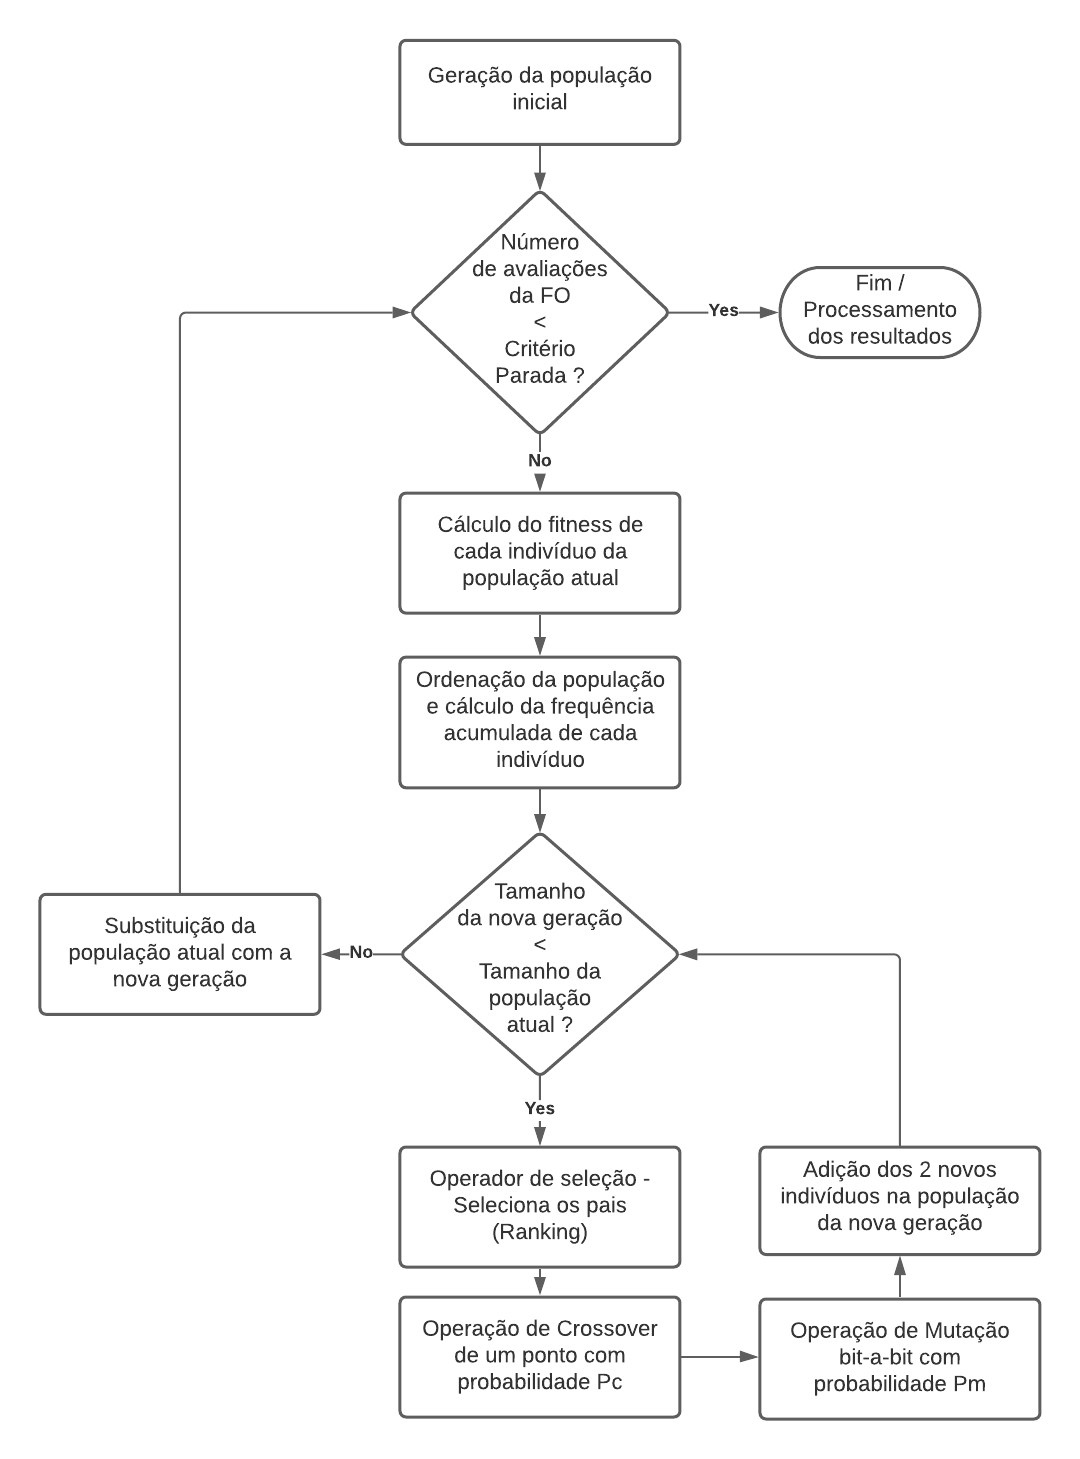
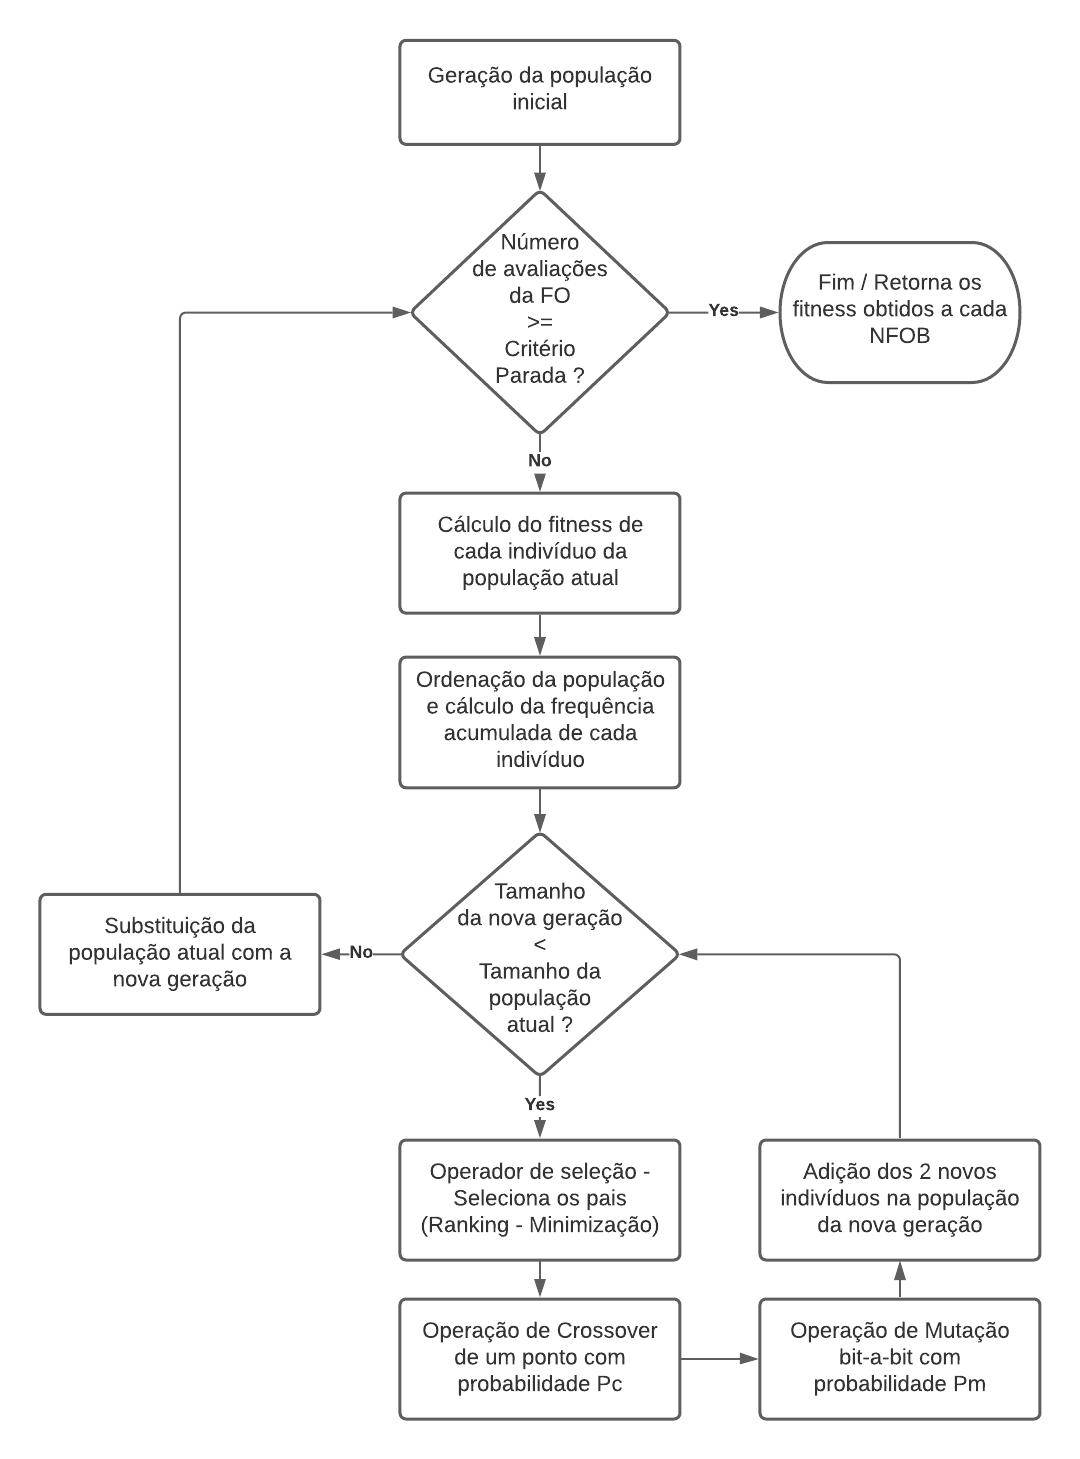
Organizacao das 50 execucoes + Alteracao README

Changed region(s): [[0.3667, 0.7402, 0.6417, 0.987], [0.7028, 0.7711, 0.9778, 0.8944], [0.7028, 0.1542, 0.9472, 0.2467]]

diff --git a/SGA/SGA.cs b/SGA/SGA.cs
@@ -477,84 +477,90 @@ namespace SGA
             // Inicializa o temporizador
             var total_watch = System.Diagnostics.Stopwatch.StartNew();
 
+
+
+            // ================================================
+            // =============== 1 EXECUÇÃO =====================
+            // ================================================
+            
             // Executa o SGA e recebe com retorno os NFOB
             List<double> SGA_bests_NFOB = Algoritmo_Genetico_Simples(probabilidade_mutacao, probabilidade_crossover, tamanho_populacao, tamanho_genotipo, criterio_parada_nro_avaliacoes_funcao, NFOBs);
 
             // Apresenta os resultados
             Console.WriteLine("-----------------");
             for(int j=0; j<SGA_bests_NFOB.Count; j++){
-                Console.WriteLine(NFOBs[j] + ": " + SGA_bests_NFOB[j]);
+                // Console.WriteLine(NFOBs[j] + ": " + SGA_bests_NFOB[j]);
+                Console.WriteLine(SGA_bests_NFOB[j]);
             }
             Console.WriteLine("-----------------");
+            // ================================================
 
-            // Para o temporizados
+
+
+
+            /*
+            // ================================================
+            // ============== 50 EXECUÇÕES ====================
+            // ================================================
+
+            // Cria lista para armazenar os NFOBs de cada execução            
+            List<List<double>> todas_execucoes_SGA_NFOB = new List<List<double>>();
+
+            // Cria listas com os parâmetros testes a serem realizados
+            List<double> crossovers = new List<double>(){0.1, 0.2, 0.4, 0.6, 0.8, 1};
+            List<double> populacoes = new List<double>(){10, 20, 40, 80, 120, 160};
+            List<double> mutacoes = new List<double>(){0.005, 0.01, 0.05, 0.1, 0.3, 0.5};
+
+            foreach (double probabilidade_mutacao in mutacoes){
+                Console.WriteLine("Probabilidade Crossover: " + probabilidade_crossover);
+                Console.WriteLine("Tamanho Populacao: " + populacao);
+                Console.WriteLine("Probabilidade Mutação: " + probabilidade_mutacao);
+                const int numero_execucoes = 2;
+                for(int i=0; i<numero_execucoes; i++){
+                    // Executa o SGA
+                    List<double> SGA_bests_NFOB = Algoritmo_Genetico_Simples(probabilidade_mutacao, probabilidade_crossover, tamanho_populacao, tamanho_genotipo, criterio_parada_nro_avaliacoes_funcao);
+
+                    // Apresenta o melhor resultado
+                    Console.WriteLine("Execução " + i + ": " + SGA_bests_NFOB[SGA_bests_NFOB.Count - 1]);
+                    // Console.WriteLine(SGA_bests_NFOB[SGA_bests_NFOB.Count - 1]);
+
+                    // Console.WriteLine("-----------------");
+                    // Console.WriteLine("Resultados:");
+                    // foreach (double result in SGA_bests_NFOB){
+                    //     Console.WriteLine(result);
+                    // }
+                    // Console.WriteLine("-----------------");
+
+                    Console.WriteLine("Tamanho melhores_NFOB: " + melhores_NFOB.Count);
+                    Console.WriteLine("Tamanho SGA_bests_NFOB: " + SGA_bests_NFOB.Count);
+                    
+                    // Adiciona na lista de execuções a execução atual
+                    todas_execucoes_SGA_NFOB.Add(SGA_bests_NFOB);
+                }
+            }
+
+            // Apresenta os resultados das N execuções
+            const int NFOBs = 25;
+            for(int NFOB=0; NFOB<NFOBs; NFOB++){
+                double sum = 0;
+                foreach(List<double> execution in todas_execucoes_SGA_NFOB){
+                    sum += execution[NFOB];
+                }
+                double media = sum / (double)todas_execucoes_SGA_NFOB.Count;
+                // Console.WriteLine("Soma do NFOB " + NFOB + ": " + sum);
+                // Console.WriteLine("Média do NFOB " + NFOB + ": " + media);
+                Console.WriteLine(media);
+            }
+            // ================================================
+            */
+
+
+            // Para o temporizado
             total_watch.Stop();
 
             // Calcula o tempo de execução
             var elapsedMs = total_watch.ElapsedMilliseconds;
             Console.WriteLine("Tempo total de execução: " + elapsedMs/1000.0 + " segundos");
-
-
-
-
-            // List<List<double>> todas_execucoes_SGA_NFOB = new List<List<double>>();
-
-            // // // List<double> crossovers = new List<double>(){0.1, 0.2, 0.4, 0.6, 0.8, 1};
-            // // // List<double> populacoes = new List<double>(){10, 20, 40, 80, 120, 160};
-            // // List<double> mutacoes = new List<double>(){0.005, 0.01, 0.05, 0.1, 0.3, 0.5};
-            // // foreach (double probabilidade_mutacao in mutacoes){
-            //     // Console.WriteLine("Probabilidade Crossover: " + probabilidade_crossover);
-            //     // Console.WriteLine("Tamanho Populacao: " + populacao);
-            //     // Console.WriteLine("Probabilidade Mutação: " + probabilidade_mutacao);
-            //     const int numero_execucoes = 50;
-            //     for(int i=0; i<numero_execucoes; i++){
-            //         // // Começa a contar o tempo de execução
-            //         // var watch = System.Diagnostics.Stopwatch.StartNew();
-                    
-            //         // Executa o SGA
-            //         List<double> SGA_bests_NFOB = Algoritmo_Genetico_Simples(probabilidade_mutacao, probabilidade_crossover, tamanho_populacao, tamanho_genotipo, criterio_parada_nro_avaliacoes_funcao);
-
-            //         // Adiciona na lista de execuções a execução atual
-            //         todas_execucoes_SGA_NFOB.Add(SGA_bests_NFOB);
-
-                    
-            //         // // Encerra o timer
-            //         // watch.Stop();
-
-            //         // Apresenta o melhor resultado
-            //         // Console.WriteLine("Resultados:");
-            //         // foreach (double result in SGA_bests_NFOB){
-            //         //     Console.WriteLine(result);
-
-            //         // }
-            //         // Console.WriteLine("Execução " + i + ": " + SGA_bests_NFOB[SGA_bests_NFOB.Count - 1]);
-            //         // Console.WriteLine("Execução " + i + ": ");
-            //         // Console.WriteLine(SGA_bests_NFOB[SGA_bests_NFOB.Count - 1]);
-            //         // Console.WriteLine("-----------------");
-            //         // for(int j=0; j<SGA_bests_NFOB.Count; j++){
-            //         //     Console.WriteLine(SGA_bests_NFOB[j]);
-            //         // }
-            //         // Console.WriteLine("-----------------");
-            //         // Console.WriteLine("Tamanho melhores_NFOB: " + melhores_NFOB.Count);
-            //         // Console.WriteLine("Tamanho SGA_bests_NFOB: " + SGA_bests_NFOB.Count);
-                    
-            //         // Obtém o tempo de execução
-            //         // var elapsedMs = watch.ElapsedMilliseconds;
-            //         // Console.WriteLine("Tempo de execução: " + elapsedMs/1000.0 + " segundos");
-            //     }
-            // // }
-
-            // const int NFOBs = 25;
-            // for(int NFOB=0; NFOB<NFOBs; NFOB++){
-            //     double sum = 0;
-            //     foreach(List<double> execution in todas_execucoes_SGA_NFOB){
-            //         sum += execution[NFOB];
-            //     }
-            //     double media = sum / (double)todas_execucoes_SGA_NFOB.Count;
-            //     // Console.WriteLine("Soma do NFOB " + NFOB + ": " + sum);
-            //     // Console.WriteLine("Média do NFOB " + NFOB + ": " + media);
-            //     Console.WriteLine(media);
-            // }
         }
     }
 }

diff --git a/README.md b/README.md
@@ -1,17 +1,29 @@
 # Algoritmo Genético Simples
 
-* **Disciplina:** CMC-324-4 - Otimização Evolutiva
+[![License: MIT](https://img.shields.io/badge/license-MIT-orange.svg)](LICENSE) 
+
+* **Instituto:** Instituto Nacional de Pesquisas Espaciais
+* **PPG:** Engenharia e Tecnologia Espaciais - Engenharia e Gerenciamento de Sistemas Espaciais
+* **Disciplina:** CMC324-4 - Otimização Evolutiva
 * **Docente:** Dr. Fabiano Luis de Sousa
+
+### Sumário
+- [Descrição da Tarefa](https://github.com/leobeckerdaluz/SGA_OtimizacaoEvolutiva#descri%C3%A7%C3%A3o-da-tarefa)
+- [Parâmetros de Ajuste](https://github.com/leobeckerdaluz/SGA_OtimizacaoEvolutiva#par%C3%A2metros-de-ajuste)
+- [Fluxograma da Execução](https://github.com/leobeckerdaluz/SGA_OtimizacaoEvolutiva#fluxograma-da-execu%C3%A7%C3%A3o)
+- [Passo a Passo para Executar](https://github.com/leobeckerdaluz/SGA_OtimizacaoEvolutiva#passo-a-passo-para-executar)
+- [Implementações Futuras](https://github.com/leobeckerdaluz/SGA_OtimizacaoEvolutiva#implementa%C3%A7%C3%B5es-futuras)
 
 ________________________________________________________
 
 ## Descrição da Tarefa
 **Implementação de um SGA com as seguintes características:**
-- Codificação binária:
-- Seleção da população intermediária (pais) por meio da "roda da roleta"
+- Codificação binária
+- Seleção da população intermediária (pais) por meio da "roda da roleta" **(O problema de minimização --> Seleção por ranking)**
 - Crossover de um ponto
 - Mutação bit-a-bit
 - Substituição da população: Geracional
+
 
 **Função objetivo:**
 <div align="left">
@@ -36,6 +48,18 @@ ________________________________________________________
 </div>
 
 
+## Passo a Passo para Executar
+### Alteração dos parâmetros de ajuste e de execução
+Para alterar os parâmetros de ajuste e de execução do código, é necessário abrir o código fonte em um editor de texto e realizar a alteração dos valores das variáveis.
+### Execução
+- **Linux (Arch Linux / Manjaro):**
+   - **Requisitos:** É necessário instalar o pacote **`dotnet-sdk`**. Por sua vez, esse pacote instala juntamente todos os pacotes necessários para o seu funcionamento.
+   - **Execução:** Acesse a pasta **`/SGA`** deste repositório e digite no terminal **`dotnet run`**. Esse comando compila o código e executa.
+- **Windows:** 
+   - **Requisitos:** É necessário instalar alguma versão do **Visual Studio** para a execução do projeto.
+   - **Execução:** Acesse a pasta **`/SGA`** deste repositório e execute o arquivo **`SGA.cs`**
+
+
 ## Implementações Futuras
    * Adição de controle para quando o problema é de maximização ou de minimização
-   * Alteração do cálculo de frequência acumulada em problema de maximização visando adicionar a roda da roleta.
+   * Alteração do cálculo de frequência acumulada em problema de maximização, visando adicionar a roda da roleta.
